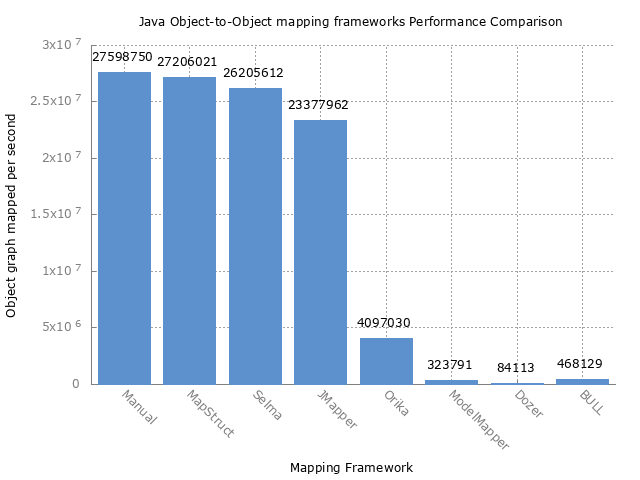
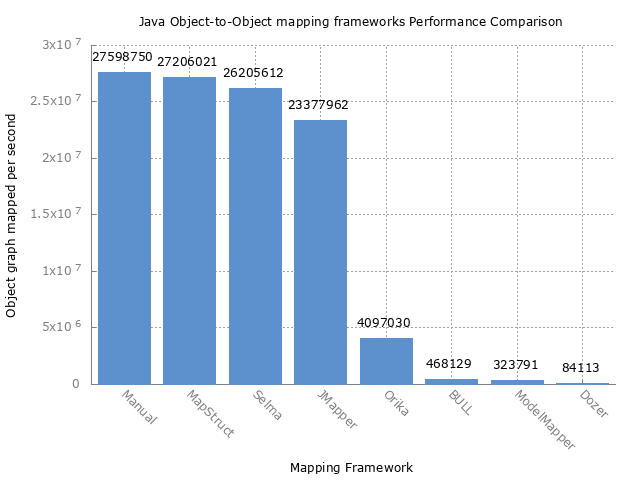
minor: re-ordered stats in descendend order

diff --git a/readme.md b/readme.md
@@ -37,7 +37,7 @@ It includes combinations which usually appear in Java Beans, such as:
 
 ## Launch the benchmark
 
-_Pre-requisites: Maven 3.x and a JDK 7 (or above)_
+_Pre-requisites: Maven 3.x and a JDK 8 (or above)_
 
 ``git clone git://github.com/arey/java-object-mapper-benchmark.git``
 
@@ -80,15 +80,15 @@ Tests has been performed on:
     <tr>
         <th>Orika</th><td>thrpt</td><td>200</td><td>4 097 030</td><td>21 220</td><td>ops/s</td>
     </tr>
+    </tr>
+        <th>BULL</th><td>thrpt</td><td>200</td><td>468 129</td><td>4955</td><td>ops/s</td>
+    </tr>
     <tr>       
         <th>ModelMaper</th><td>thrpt</td><td>200</td><td>323 791</td><td>3 172</td><td>ops/s</td>
     </tr>
     <tr>
         <th>Dozer</th><td>thrpt</td><td>200</td><td>84 113</td><td>331</td><td>ops/s</td>
-    </tr>
     <tr>
-        <th>BULL</th><td>thrpt</td><td>200</td><td>468 129</td><td>4955</td><td>ops/s</td>
-    </tr>
 </table>
 
 ![Framework Comparison](results.png)
